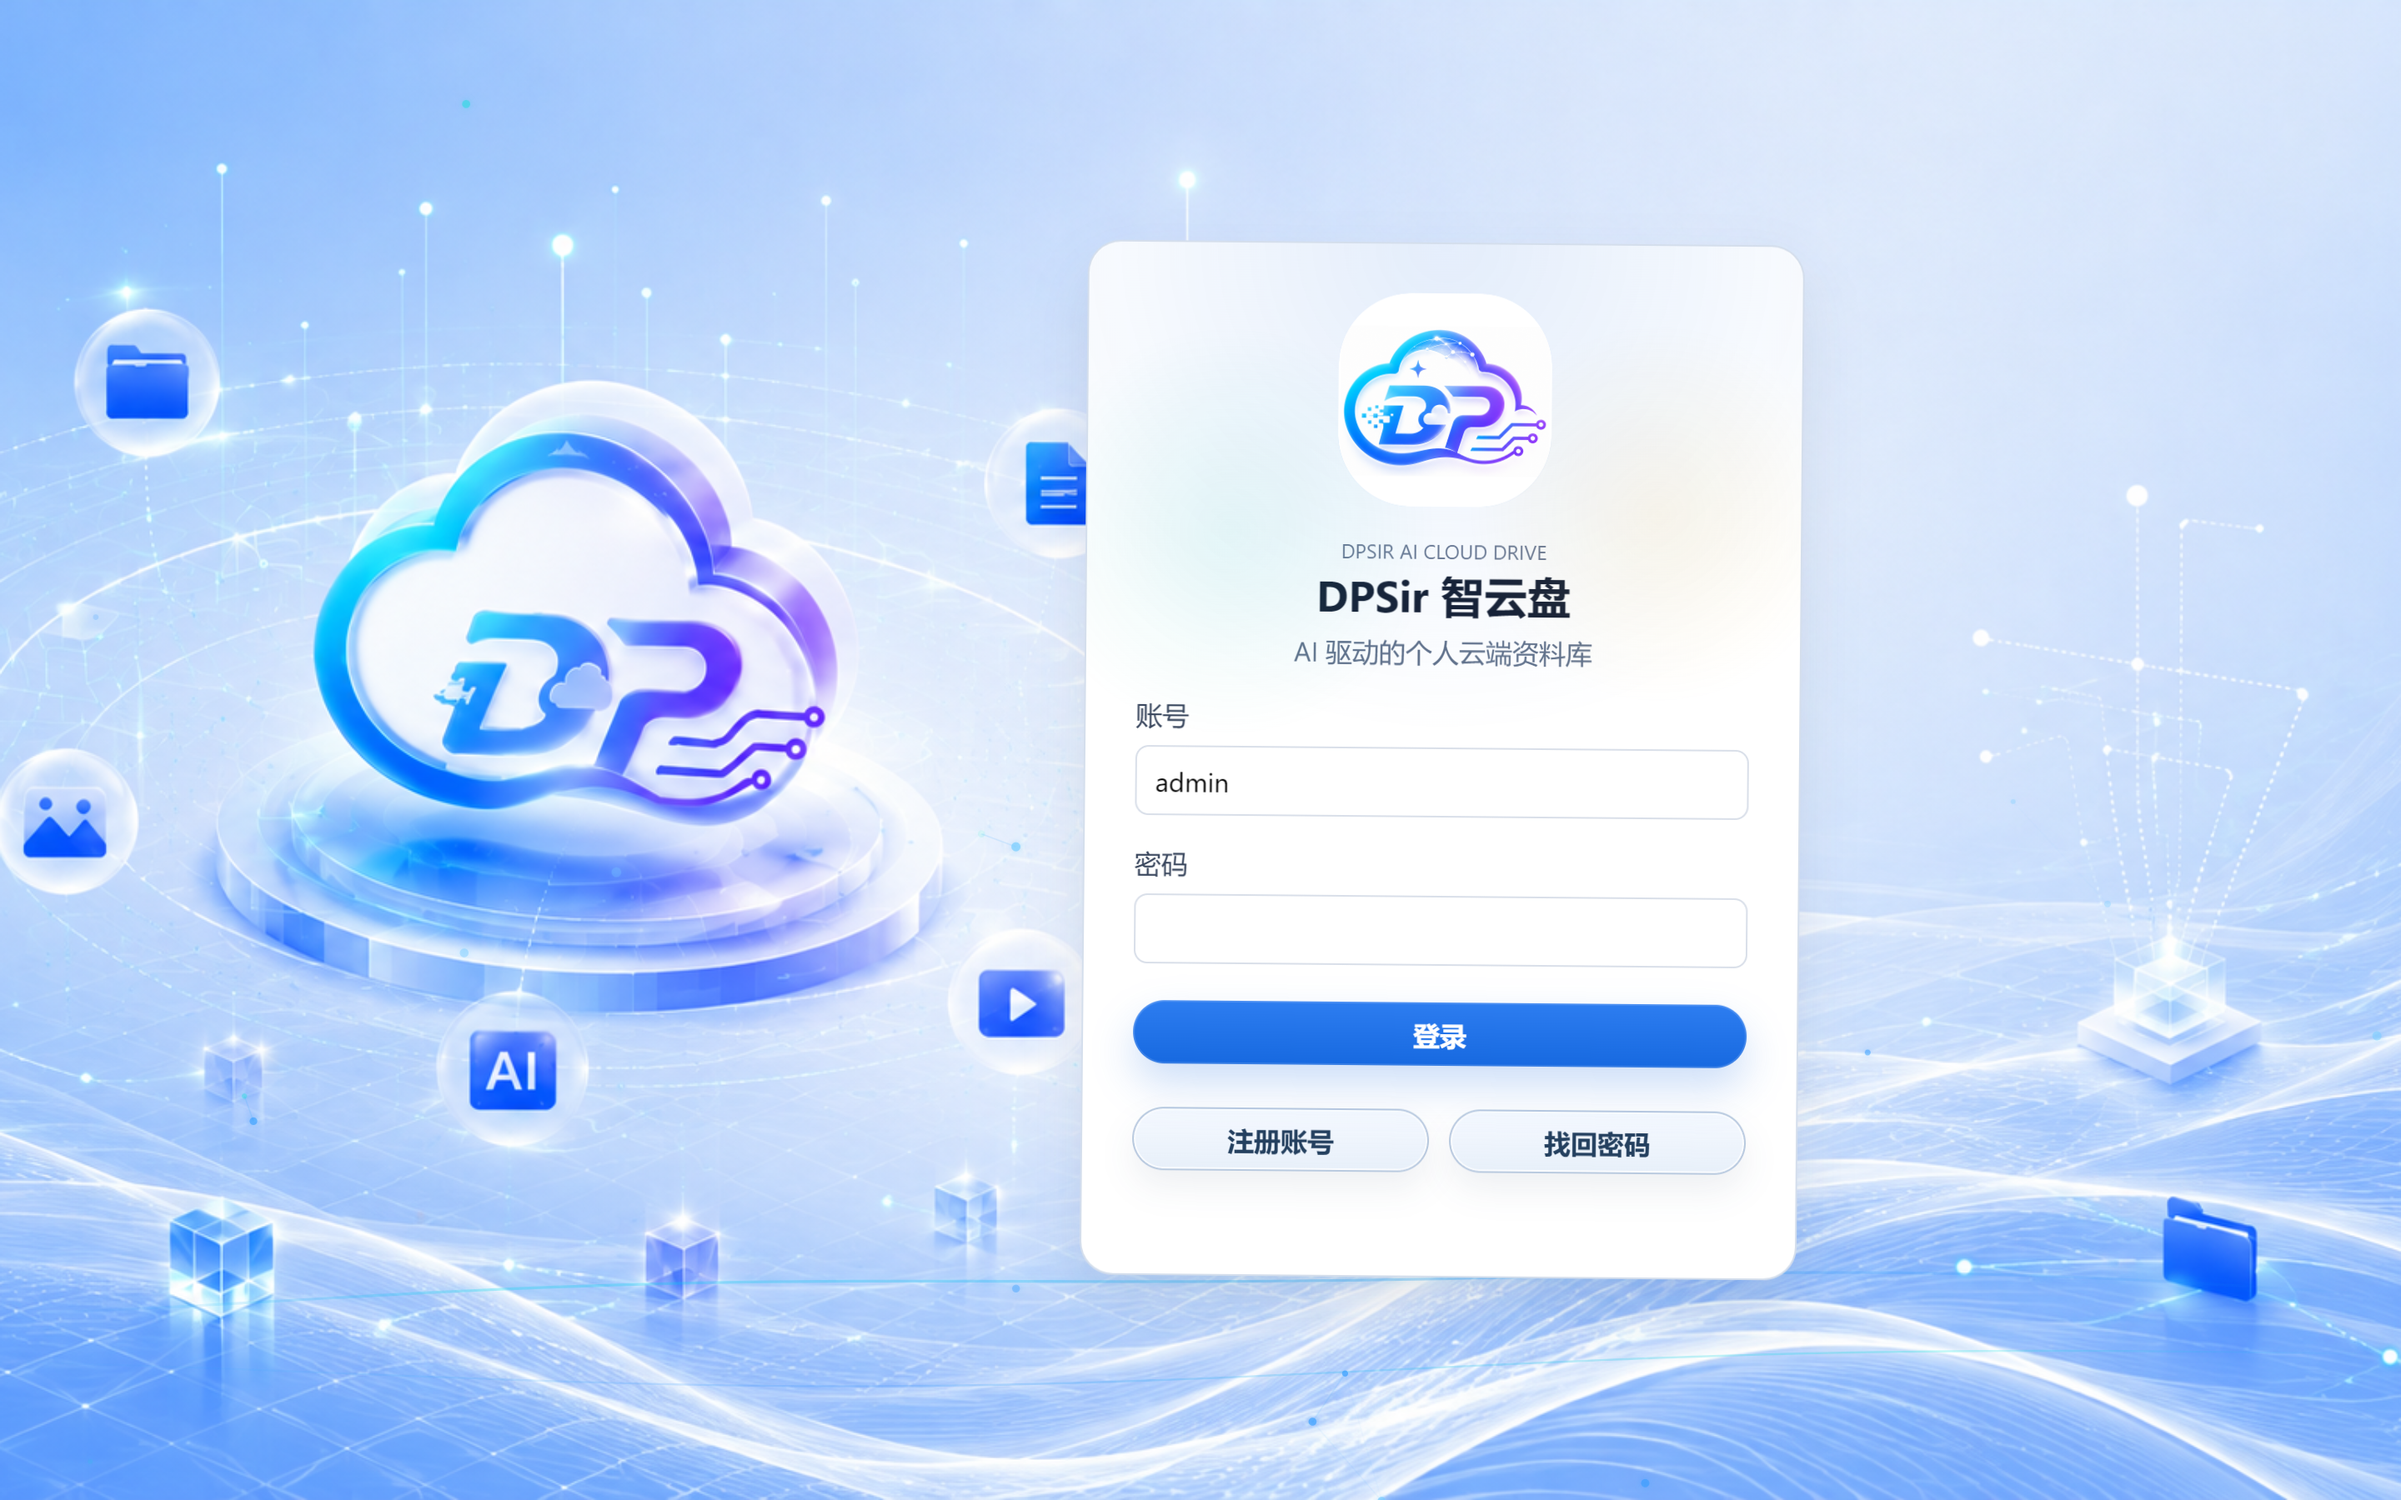
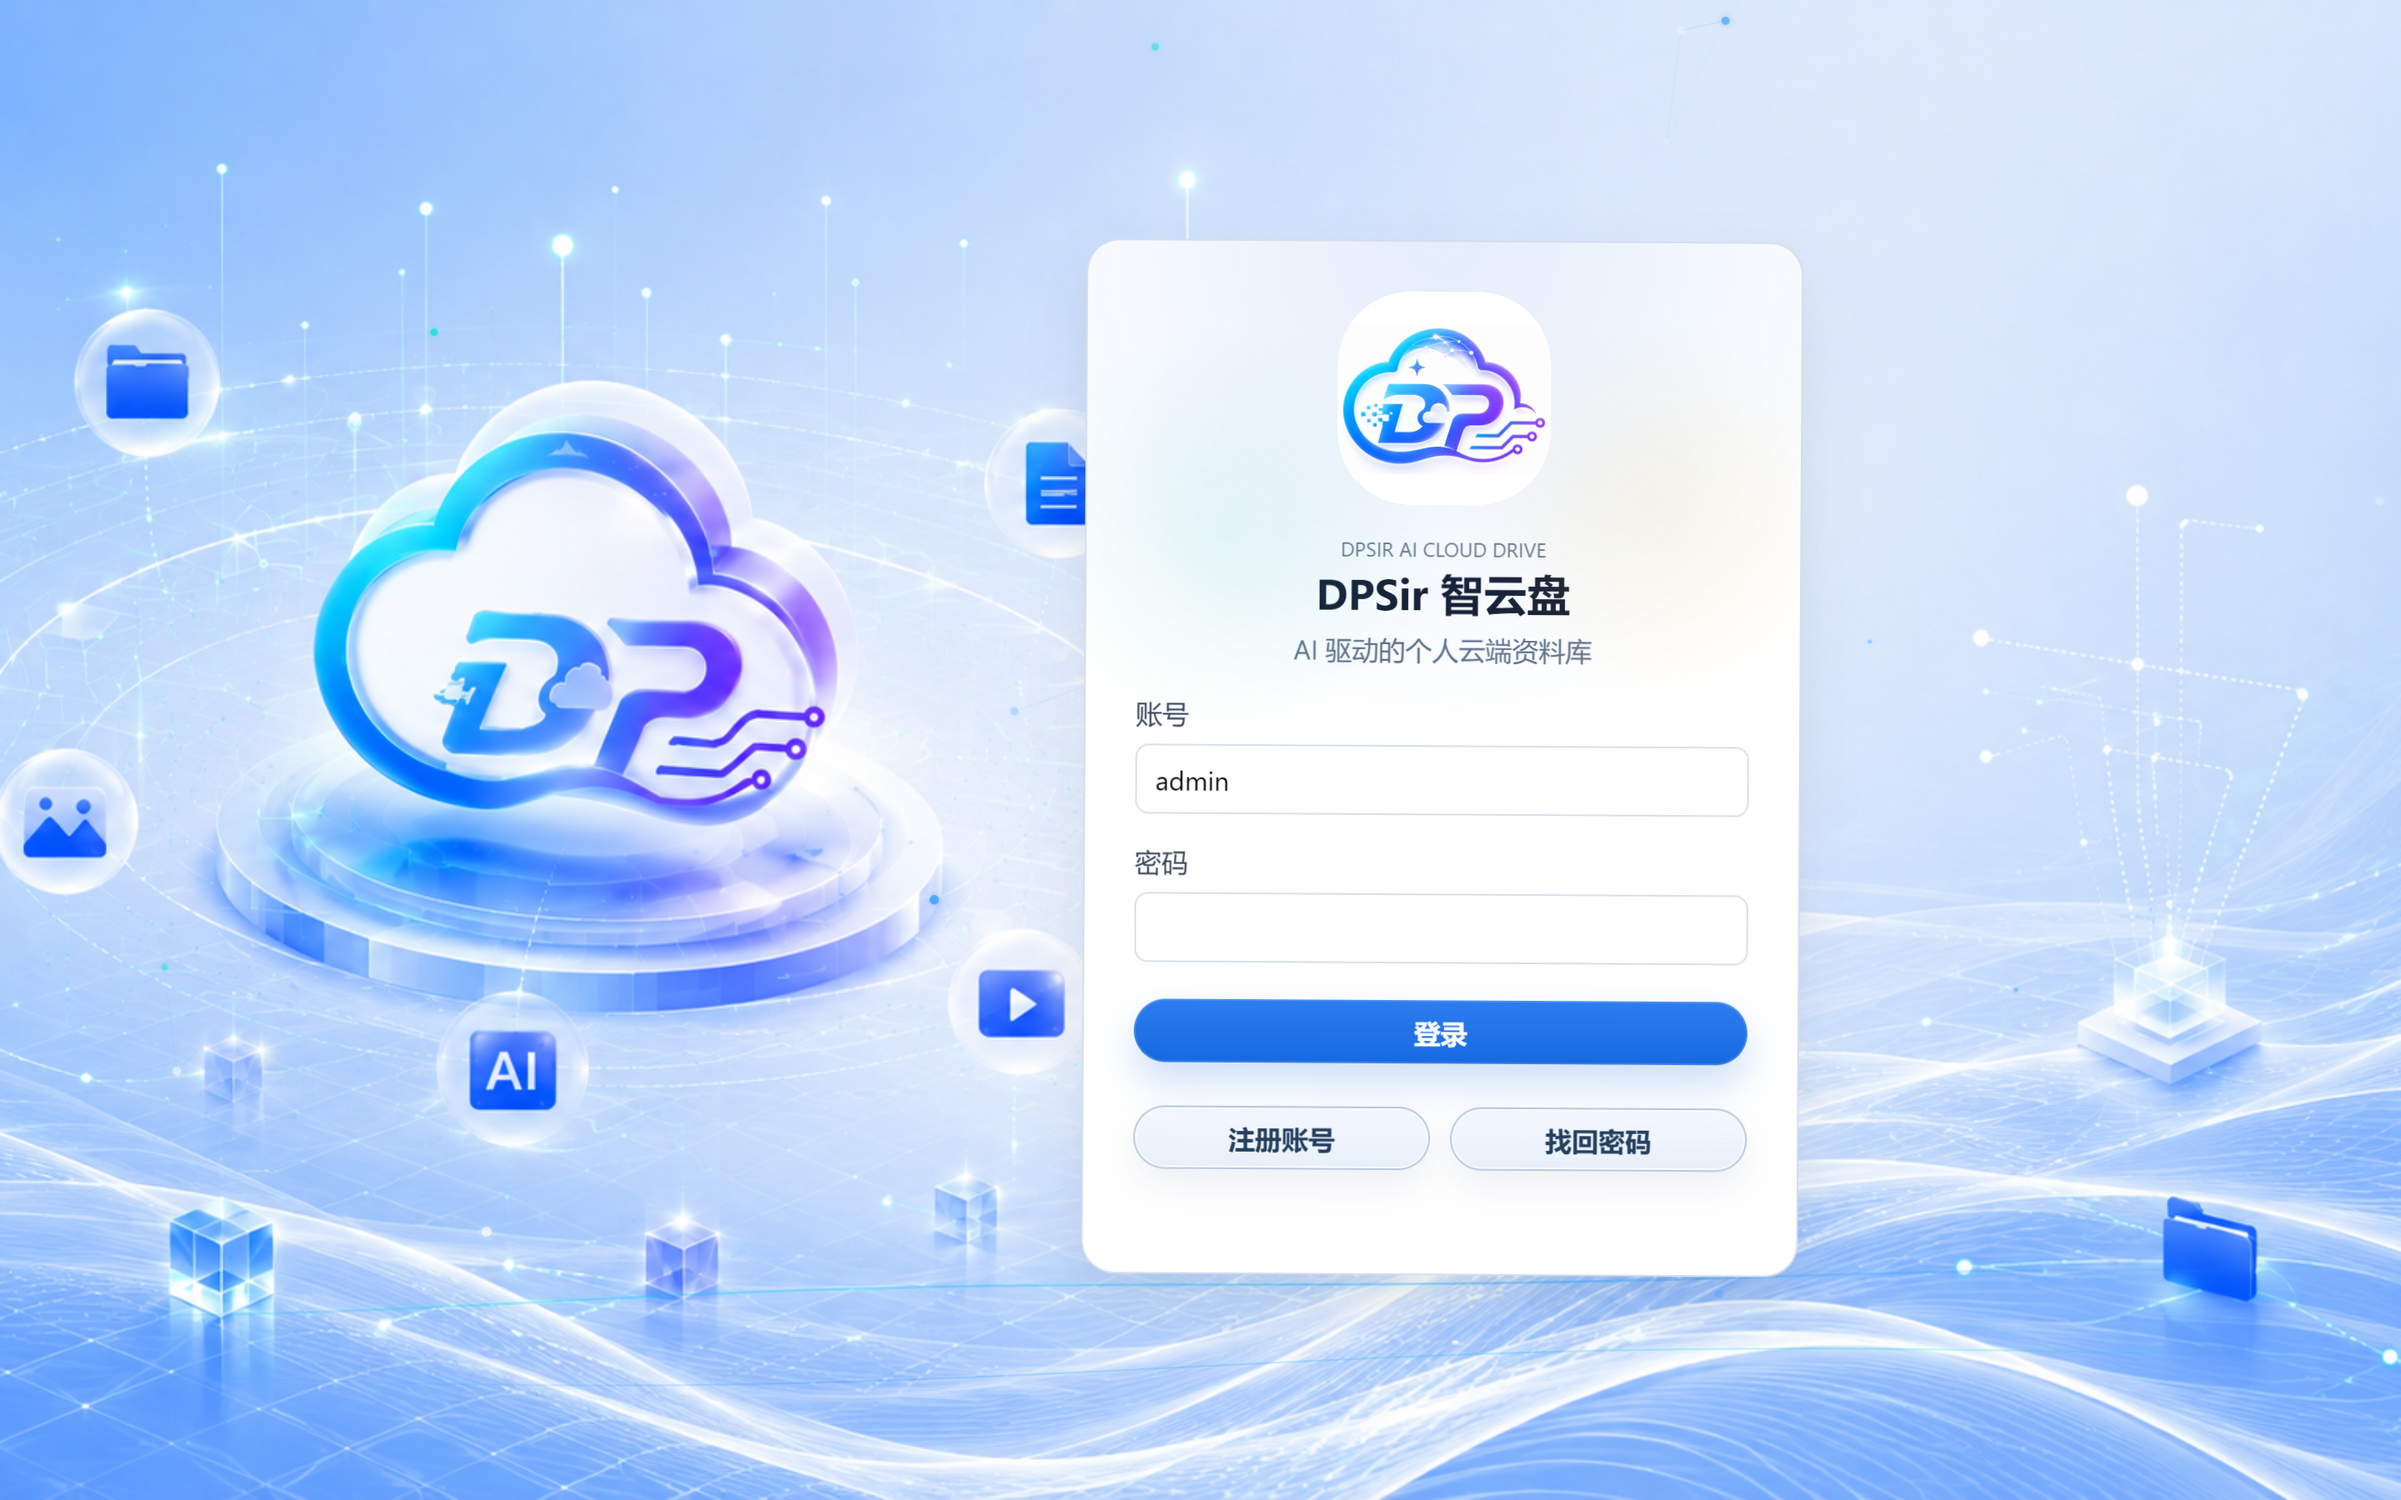
docs: update latest UI showcase screenshots and security features in README

diff --git a/README.md b/README.md
@@ -6,22 +6,22 @@
 
 ## 📸 界面预览 (UI Screenshots)
 
-| 🎨 专属视觉登录界面 | 🖥 现代化网盘管理主界面（全新存储看板） |
+| 🎨 专属视觉登录界面 | 🖥 现代化网盘管理主界面（全新底部用户中心与存储看板） |
 | :---: | :---: |
-| <img src="docs/screenshots/01_login_view.png?v=20261002_v6" width="100%" /> | <img src="docs/screenshots/02_desktop_client_main.png?v=20261002_v6" width="100%" /> |
+| <img src="docs/screenshots/01_login_view.png?v=20261005_v7" width="100%" /> | <img src="docs/screenshots/02_desktop_client_main.png?v=20261005_v7" width="100%" /> |
 
-| 👥 子账号存储配额可视化调控 | 🔒 普通用户空间绝对隔离与配额保护 |
+| 👥 用户账号管理与配额安全调控（全新单方案重置密码） | 🛡 个人密码与安全中心（3-Tab 管理与安全应急凭据卡） |
 | :---: | :---: |
-| <img src="docs/screenshots/04_user_quota_management.png?v=20261002_v6" width="100%" /> | <img src="docs/screenshots/05_user_quota_isolated_view.png?v=20261002_v6" width="100%" /> |
+| <img src="docs/screenshots/04_user_accounts_management.png?v=20261005_v7" width="100%" /> | <img src="docs/screenshots/05_password_and_security_center.png?v=20261005_v7" width="100%" /> |
 
-### 🤖 智能 AI 全库问答与深度检索 (DeepSeek 驱动)
+### 🤖 智能 AI 全库问答与深度检索 (DeepSeek 驱动 · 300ms 纯 GPU 伴随式丝滑吸附抽屉)
 <p align="center">
-  <img src="docs/screenshots/03_ai_drawer_chat.png?v=20261002_v6" width="100%" />
+  <img src="docs/screenshots/03_ai_drawer_chat.png?v=20261005_v7" width="100%" />
 </p>
 
 ### 📑 文档在线高清原生预览与 AI 一键智能提炼总结
 <p align="center">
-  <img src="docs/screenshots/06_document_preview_ai.png?v=20261002_v6" width="100%" />
+  <img src="docs/screenshots/06_document_preview_ai.png?v=20261005_v7" width="100%" />
 </p>
 
 ---
@@ -158,14 +158,17 @@ PUBLIC_ACCESS_URL=https://pan.yourdomain.com
   * 家人/朋友凭借密钥即可注册独立的云盘账户，数据物理隔离，互不干扰。
 * **全自动 AI 深度赋能**：
   * 只要在 `.env`（或 Windows 系统用户环境变量）中配置了 `DEEPSEEK_API_KEY`，网盘所有用户即可随时使用 **AI 知识库全库对话** 与 **文档一键深度提炼总结**，全自动流式打字输出，无需任何前端二次设置。
-* **子账号存储空间配额与动态调控（管理员专属特权）**：
-  * **权限绝对隔离**：管理员（`admin`）拥有全盘最高控制权，存储空间永久无限制；普通子账号无权查看或调用配额管理接口；
-  * **动态可视化管理**：管理员侧边栏独占显示【👥 用户配额管理】按钮，实时呈现所有用户（含已注册老用户）当前占用的真实硬盘空间，支持随时在线调整配额（10GB、20GB、50GB、100GB、无限制或自定义大小）；
-  * **注册自动绑定与全链路超限防御**：生成注册密钥时可预设配额；普通用户在普通上传、分片续传或秒传超出配额时会被系统毫秒级安全拦截，彻底杜绝服务器物理硬盘被挤爆。
-* **随时修改密码**：
-  * 任何时候想修改密码，直接在登录页面点击 **【找回密码】**，输入当前密码即可立即设定任意新密码；
-* **物理防丢钥匙（密码彻底遗忘的自救兜底机制）**：
-  * 这是专为物理机主人预留的最高特权通道。即使彻底忘记管理员密码，只要在服务器电脑的 `.env` 中写入 `CLOUD_DRIVE_PASSWORD=你的备用密码` 并重启网盘，即可在网页端“找回密码”中以此作为恢复密码强行重设，永远无需担心被锁在系统门外！
+* **全新升级「用户账号管理」与配额调控（管理员专属特权）**：
+  * **权限绝对隔离**：管理员（`admin`）拥有全盘最高控制权，存储空间永久无限制；普通子账号无权查看或调用账号管理接口；
+  * **自适应单行排版与动态调控**：管理员侧边栏独占显示【👥 用户账号管理】按钮，实时呈现所有用户（含已注册老用户）真实占用硬盘空间，支持随时在线调整配额（10GB、20GB、50GB、100GB、无限制或自定义大小）；
+  * **管理员单一方案一键重置密码**：若家庭成员或子账号彻底遗忘密码，管理员可在后台一键生成 12 位高强度随机临时密码并快捷复制告知，解决老用户自救死锁；
+  * **全链路超限防御**：普通用户在普通上传、分片续传或秒传超出配额时会被系统毫秒级安全拦截，彻底杜绝服务器物理硬盘被挤爆。
+* **个人「密码与安全中心」与 32 位安全应急恢复密钥（3-Tab 全新升级）**：
+  * **Tab 1 登录密码修改**：系统内随时修改密码，保存后自动安全注销当前令牌并平滑引导重新登录；
+  * **Tab 2 恢复密钥找回重置**：遗忘旧密码时，凭借账号绑定的 32 位专属安全恢复密钥（`DPSIR-RCV-XXXX-XXXX`）即可在无需旧密码的情况下随时自主重置，防爆破与防撞库双层限流守护；
+  * **Tab 3 离线安全应急凭据卡**：实时展示脱敏恢复密钥、一键复制，并支持**一键下载专属离线安全凭据卡**，妥善封存本地防丢失。
+* **物理防丢钥匙（密码彻底遗忘的物理机最高自救兜底）**：
+  * 专为物理机主人预留的最高特权通道。即使管理员忘记密码且遗失恢复密钥，只要在服务器电脑本地 `.env` 中写入 `CLOUD_DRIVE_PASSWORD=你的备用密码` 并重启网盘，即可在网页端以此作为物理凭据强行重设，永远无需担心被锁在系统门外！
 
 ---
 
